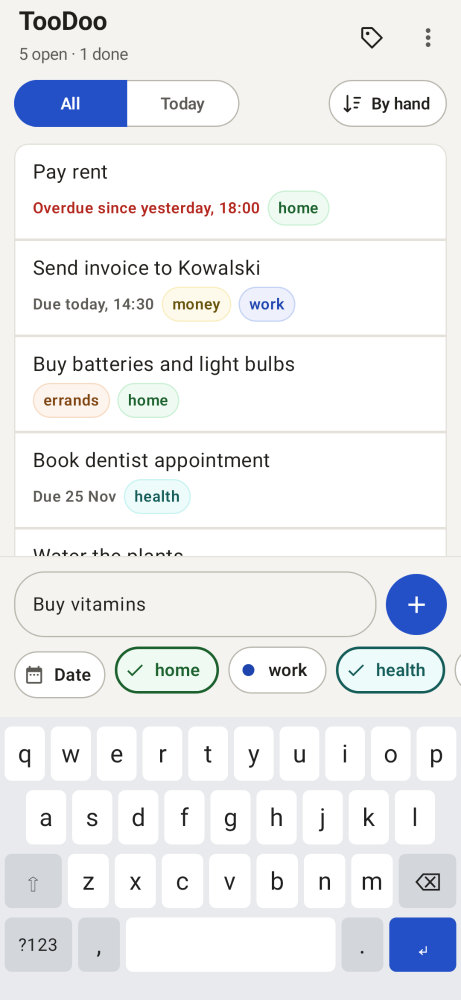
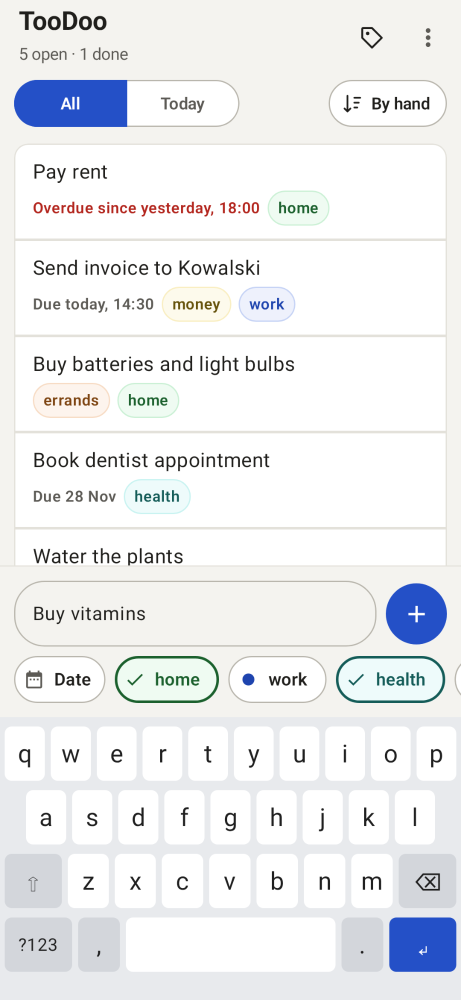
fix(android): the date chip in line with the labels; date and time in one go
The chip row centers its chips and the date chip is 40 dp high like the
label chips, so the two line up. "Pick a date and time…" opens the time
picker right after the date picker ("All day" keeps no time).

Claude-Session: https://claude.ai/code/session_01WwaSq8H7uLKRVK1BanfNgj

Changed region(s): [[0.0304, 0.558, 1.0, 0.713], [0.7592, 0.558, 0.7896, 0.589]]

diff --git a/android/app/src/main/kotlin/com/codeleet/toodoo/ui/AddDue.kt b/android/app/src/main/kotlin/com/codeleet/toodoo/ui/AddDue.kt
@@ -2,7 +2,7 @@ package com.codeleet.toodoo.ui
 
 import androidx.compose.foundation.clickable
 import androidx.compose.foundation.layout.Box
-import androidx.compose.foundation.layout.heightIn
+import androidx.compose.foundation.layout.height
 import androidx.compose.foundation.layout.size
 import androidx.compose.foundation.shape.CircleShape
 import androidx.compose.foundation.shape.RoundedCornerShape
@@ -190,8 +190,9 @@ data class TypedDueMark(val start: Int, val end: Int, val color: Color) : Visual
 /**
  * The first chip of the row under the add field. Without a [due] date it is
  * an outlined "Date"; with one it is blue (red if [passed]) with a ×. A tap
- * opens the quick choices: Today, Tomorrow, Pick a date…, and with a date
- * also Set a time…. The × calls [onClear].
+ * opens the quick choices: Today, Tomorrow, Pick a date and time… (the date
+ * picker, then the time picker), and with a date also Set a time…. The ×
+ * calls [onClear].
  */
 @Composable
 fun NewDueChip(
@@ -214,7 +215,7 @@ fun NewDueChip(
                 leadingIcon = { Icon(Icons.Filled.DateRange, contentDescription = null, modifier = Modifier.size(InputChipDefaults.IconSize)) },
                 shape = RoundedCornerShape(50),
                 colors = InputChipDefaults.inputChipColors(containerColor = colors.surface, labelColor = colors.onSurface, leadingIconColor = colors.onSurfaceVariant),
-                modifier = Modifier.heightIn(min = 40.dp).semantics { contentDescription = "Due date: none. Double tap to pick" },
+                modifier = Modifier.height(40.dp).semantics { contentDescription = "Due date: none. Double tap to pick" },
             )
         } else {
             val text = newDueText(due, today)
@@ -232,7 +233,7 @@ fun NewDueChip(
                 },
                 colors = InputChipDefaults.inputChipColors(selectedContainerColor = fill, selectedLabelColor = ink, selectedTrailingIconColor = ink),
                 shape = RoundedCornerShape(50),
-                modifier = Modifier.heightIn(min = 40.dp).semantics {
+                modifier = Modifier.height(40.dp).semantics {
                     contentDescription = "Due date: ${text.lowercase()}. Double tap to change"
                     customActions = listOf(CustomAccessibilityAction("Remove the due date from the new item") { onClear(); true })
                 },
@@ -243,7 +244,7 @@ fun NewDueChip(
             val pick = { action: () -> Unit -> { open = false; action() } }
             DropdownMenuItem(text = { Text("Today") }, trailingIcon = { Text(dayLine(today), color = colors.onSurfaceVariant) }, onClick = pick { onDay(today) })
             DropdownMenuItem(text = { Text("Tomorrow") }, trailingIcon = { Text(dayLine(today.plusDays(1)), color = colors.onSurfaceVariant) }, onClick = pick { onDay(today.plusDays(1)) })
-            DropdownMenuItem(text = { Text("Pick a date…") }, onClick = pick(onPickDate))
+            DropdownMenuItem(text = { Text("Pick a date and time…") }, onClick = pick(onPickDate))
             if (due != null) {
                 HorizontalDivider()
                 DropdownMenuItem(text = { Text("Set a time…") }, onClick = pick(onPickTime))

diff --git a/android/app/src/main/kotlin/com/codeleet/toodoo/ui/ListScreen.kt b/android/app/src/main/kotlin/com/codeleet/toodoo/ui/ListScreen.kt
@@ -886,8 +886,15 @@ private fun AddBar(
             confirmButton = {
                 TextButton(onClick = {
                     // The picker's days are UTC midnights.
-                    state.selectedDateMillis?.let { pick(Instant.ofEpochMilli(it).atZone(ZoneOffset.UTC).toLocalDate(), due?.time ?: "") }
-                    close()
+                    val picked = state.selectedDateMillis?.let { Instant.ofEpochMilli(it).atZone(ZoneOffset.UTC).toLocalDate() }
+                    if (picked == null) {
+                        close()
+                    } else {
+                        pick(picked, due?.time ?: "")
+                        // The time picker follows at once, so a date and a time take one go ("All day" for none).
+                        pickingDate = false
+                        pickingTime = true
+                    }
                 }) { Text("OK") }
             },
             dismissButton = { TextButton(onClick = close) { Text("Cancel") } },

diff --git a/android/app/src/main/kotlin/com/codeleet/toodoo/ui/AddLabels.kt b/android/app/src/main/kotlin/com/codeleet/toodoo/ui/AddLabels.kt
@@ -21,6 +21,7 @@ import androidx.compose.material3.Icon
 import androidx.compose.material3.MaterialTheme
 import androidx.compose.material3.Text
 import androidx.compose.runtime.Composable
+import androidx.compose.ui.Alignment
 import androidx.compose.ui.Modifier
 import androidx.compose.ui.graphics.Color
 import androidx.compose.ui.semantics.contentDescription
@@ -69,6 +70,7 @@ fun LabelChipRow(
     LazyRow(
         contentPadding = PaddingValues(horizontal = sidePadding),
         horizontalArrangement = Arrangement.spacedBy(8.dp),
+        verticalAlignment = Alignment.CenterVertically,
         modifier = modifier.fillMaxWidth().semantics { contentDescription = description },
     ) {
         leading?.let { item(key = "leading") { it() } }

diff --git a/docs/user-guide.md b/docs/user-guide.md
@@ -409,9 +409,10 @@ web, so a change on the phone shows in the browser and the other way round.
   the time. Save sends the text and the due date.
 - **A due date for a new item:** when you tap the add field, a row of chips shows between the
   field and the keyboard. The first chip is "Date". Tap it and choose **Today**, **Tomorrow** or
-  **Pick a date…**. The chip then shows the date in blue, for example "Tomorrow". Tap the chip
-  again to change the date, or choose **Set a time…** to pick a time; without a time the item is
-  due all day. The × on the chip removes the date. A date that has passed shows in red.
+  **Pick a date and time…**. Today and Tomorrow set the day at once, all day. "Pick a date and
+  time…" opens the calendar and then the clock; tap **All day** on the clock if the item needs
+  no time. The chip then shows the date in blue, for example "Tomorrow, 10:00". Tap the chip
+  again to change the date, or choose **Set a time…** to change only the time. The × on the chip removes the date. A date that has passed shows in red.
   - You can also type the date at the end of the text, as on the web: "Call the dentist due
     tomorrow 10:00" or "Pay the rent @fri". The app knows the same forms as the web (see "Type
     the due date"). The date words turn blue and underlined, and the chip shows the date. The

diff --git a/docs/superpowers/specs/2026-11-19-android-add-due-design.md b/docs/superpowers/specs/2026-11-19-android-add-due-design.md
@@ -34,9 +34,10 @@ All three put the result in the same place: a date chip, first in the chip row u
 **D1 (recommended): a "Date" chip in the chip row, with quick choices.**
 - While the keyboard is open, the chip row always starts with an outlined chip "📅 Date" (also
   when you have no labels, so the row now always shows while you type).
-- Tap it: a small menu opens above the chip: **Today**, **Tomorrow**, **Pick a date…**. Today and
-  Tomorrow set the date at once (all day). "Pick a date…" opens the date picker of the item
-  sheet.
+- Tap it: a small menu opens above the chip: **Today**, **Tomorrow**, **Pick a date and time…**.
+  Today and Tomorrow set the date at once (all day). "Pick a date and time…" opens the date
+  picker of the item sheet, and after OK its time picker at once ("All day" keeps no time).
+  (Changed 2026-11-25 at Zbyszek's request: one go for a date and a time.)
 - With a date, the chip turns blue: "Tomorrow ×". Tap the chip (not the ×) for the menu again,
   now with one more line, **Set a time…** (the time picker of the item sheet, with its "All day"
   button). Then the chip says "Tomorrow, 10:00 ×".
